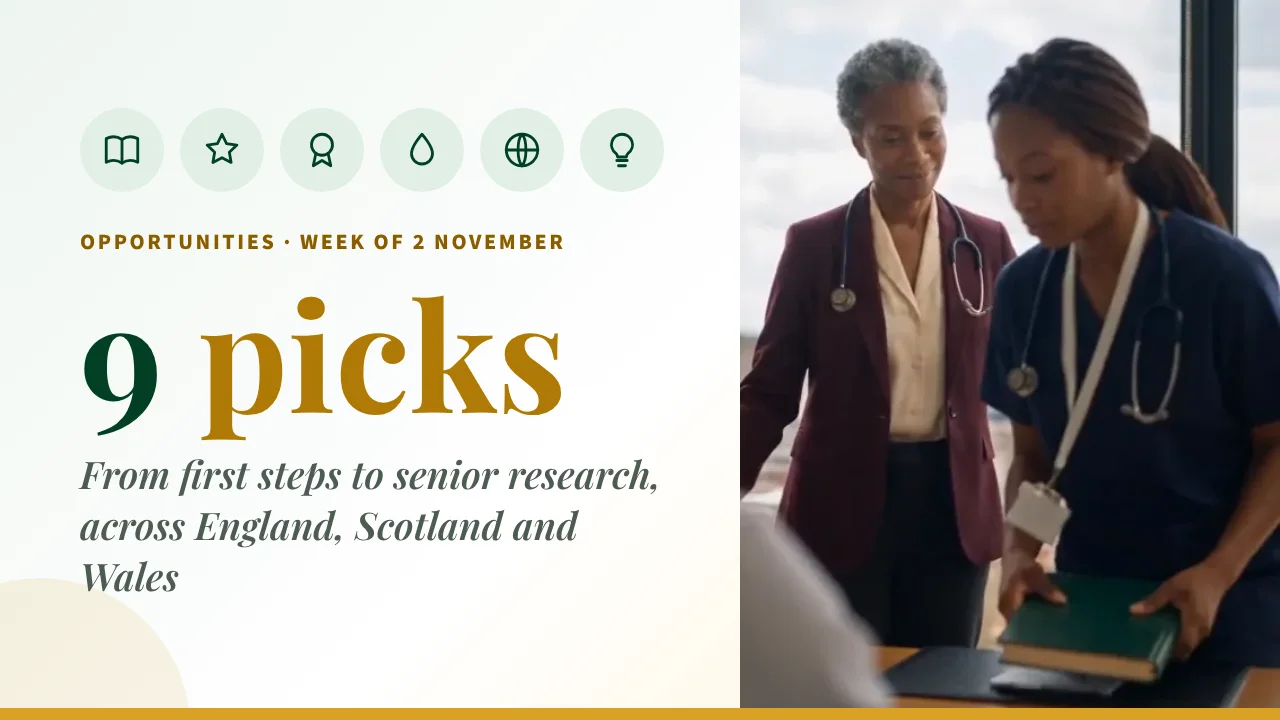
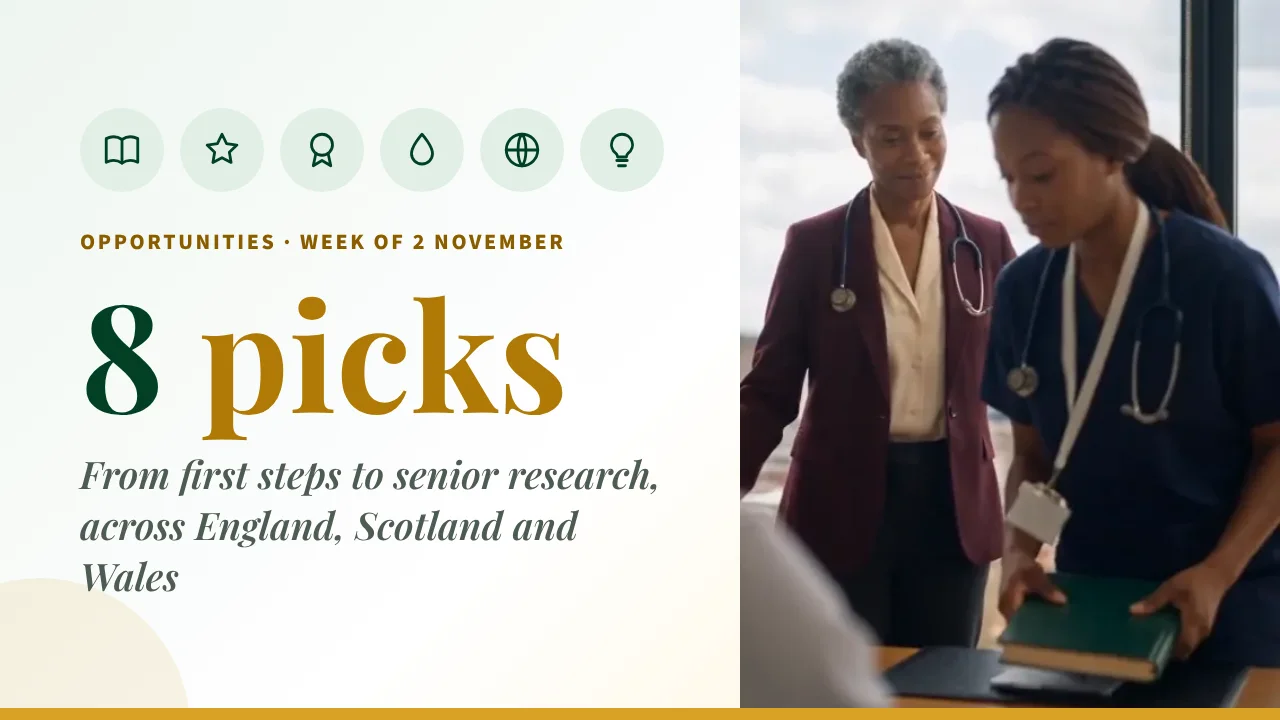
Roundup 2 Nov: review fixes (8 picks, RCN wording, Diabetes UK wording, layout)
Claude-Session: https://claude.ai/code/session_01A8ugDpjaQLHJq7K91CTbod

diff --git a/opportunities-2026-11-02.html b/opportunities-2026-11-02.html
@@ -3,11 +3,11 @@
 <head>
 <meta charset="utf-8">
 <meta name="viewport" content="width=device-width, initial-scale=1">
-<title>Opportunities this week: 9 picks for healthcare professionals | IHPN-UK</title>
-<meta name="description" content="Nine checked opportunities for UK healthcare professionals for the week of 2 November 2026: research fellowships for senior academics, consultants and researchers in Scotland and Wales, a senior nursing and midwifery leadership scholarship, Diabetes UK project grants, the BDA Research Symposium, RCN Scotland awards, RCGP Fellowship and nursing associate training.">
+<title>Opportunities this week: 8 picks for healthcare professionals | IHPN-UK</title>
+<meta name="description" content="Eight checked opportunities for UK healthcare professionals for the week of 2 November 2026: research fellowships for senior academics, consultants and researchers in Scotland and Wales, a senior nursing and midwifery leadership scholarship, Diabetes UK project grants, the BDA Research Symposium, RCN Scotland awards and RCGP Fellowship.">
 <meta name="theme-color" content="#013f24">
-<meta property="og:title" content="Opportunities this week: 9 picks for healthcare professionals | IHPN-UK">
-<meta property="og:description" content="Nine checked opportunities for UK healthcare professionals for the week of 2 November 2026: research fellowships for senior academics, consultants and researchers in Scotland and Wales, a senior nursing and midwifery leadership scholarship, Diabetes UK project grants, the BDA Research Symposium, RCN Scotland awards, RCGP Fellowship and nursing associate training.">
+<meta property="og:title" content="Opportunities this week: 8 picks for healthcare professionals | IHPN-UK">
+<meta property="og:description" content="Eight checked opportunities for UK healthcare professionals for the week of 2 November 2026: research fellowships for senior academics, consultants and researchers in Scotland and Wales, a senior nursing and midwifery leadership scholarship, Diabetes UK project grants, the BDA Research Symposium, RCN Scotland awards and RCGP Fellowship.">
 <link rel="canonical" href="https://ihpnuk.github.io/opportunities-2026-11-02.html">
 <meta property="og:url" content="https://ihpnuk.github.io/opportunities-2026-11-02.html">
 <meta property="og:site_name" content="Igbo Healthcare Professionals Network (IHPN-UK)">
@@ -69,9 +69,7 @@
 .mini em{grid-column:2;font-style:normal;font-weight:700;color:var(--gold-deep);font-size:.85rem;white-space:nowrap}
 @media (max-width:860px){.glance{grid-template-columns:1fr}}
 @media (max-width:560px){.feat-art{height:100px;justify-content:flex-end;padding-right:32px}.feat-art svg{width:56px;height:56px}.feat-body b{font-size:1.35rem}.mini a{grid-template-columns:40px 1fr}.mini .gl-who{font-size:.72rem}.mini svg{width:40px;height:40px;padding:8px}}
-.glance{align-items:start}
-.feat-art{height:240px}
-@media (min-width:861px){.feat{position:sticky;top:96px}}
+@media (min-width:861px){.feat-art{flex:1;height:auto;min-height:220px}.feat-art svg{width:120px;height:120px}}
 </style>
 </head>
 <body>
@@ -91,14 +89,14 @@
 <section class="page-hero"><div class="wrap">
   <span class="eyebrow">Opportunities &bull; 2 November 2026</span>
   <h1>Opportunities this week</h1>
-  <p class="lead">Nine picks, from first steps to senior research, across England, Scotland and Wales. Tap one to jump to it.</p>
+  <p class="lead">Eight picks, from first steps to senior research, across England, Scotland and Wales. Tap one to jump to it.</p>
 </div></section>
 
 <section>
   <div class="wrap" style="max-width:960px">
     <h2 class="sr">At a glance</h2>
-    <div class="glance"><a class="feat" href="#ba-srf" aria-label="Featured: Senior Research Fellowship, Closes Wed 11 Nov, 5pm. See details"><div class="feat-art"><span class="feat-flag">Closes soonest</span><svg viewBox="0 0 24 24" aria-hidden="true"><path d="M3 5.5c3-1.5 6-1.5 9 .5 3-2 6-2 9-.5V19c-3-1.5-6-1.5-9 .5-3-2-6-2-9-.5z"/><path d="M12 6v13.5"/></svg></div><div class="feat-body"><span class="gl-who">Psychology &amp; social science academics</span><b>Senior Research Fellowship</b><p>A year away from teaching and admin to finish a major piece of research.</p><span class="feat-when">Closes Wed 11 Nov, 5pm</span><span class="feat-btn">See details <span aria-hidden="true">&rarr;</span></span></div></a><ul class="mini"><li><a href="#fnf-senior"><svg viewBox="0 0 24 24" aria-hidden="true"><path d="M12 3l2.6 5.3 5.9.9-4.3 4.1 1 5.8L12 16.4 6.8 19.1l1-5.8L3.5 9.2l5.9-.9z"/></svg><span><span class="gl-who">Senior nurses &amp; midwives</span><b>FNF Senior and Global Scholarship</b></span><em>Closes Sun 15 Nov</em></a></li><li><a href="#rcn-scotland"><svg viewBox="0 0 24 24" aria-hidden="true"><circle cx="12" cy="9" r="6"/><path d="M8.5 14l-1.5 7 5-3 5 3-1.5-7"/></svg><span><span class="gl-who">Nurses, midwives &amp; support workers in Scotland</span><b>RCN Scotland Nurse of the Year</b></span><em>Closes Fri 20 Nov</em></a></li><li><a href="#diabetes-uk"><svg viewBox="0 0 24 24" aria-hidden="true"><path d="M12 3s6 6.6 6 11a6 6 0 0 1-12 0c0-4.4 6-11 6-11z"/><path d="M9.5 14.5a2.5 2.5 0 0 0 2.5 2.5"/></svg><span><span class="gl-who">Diabetes researchers</span><b>Diabetes UK Project Grants</b></span><em>Closes Tue 1 Dec</em></a></li><li><a href="#bda-symposium"><svg viewBox="0 0 24 24" aria-hidden="true"><path d="M12 7c-1.5-1.2-4-1.4-5.6.2C4.6 9 4.8 13 6.6 16.2 8 18.7 9.6 20 11 19.6c.6-.2.9-.4 1-.4s.4.2 1 .4c1.4.4 3-.9 4.4-3.4 1.8-3.2 2-7.2.2-9C16 5.6 13.5 5.8 12 7z"/><path d="M12 7c0-2 1-3.5 3-4"/></svg><span><span class="gl-who">Dietitians</span><b>BDA Research Symposium</b></span><em>Wed 2 Dec</em></a></li><li><a href="#nrs-consultant"><svg viewBox="0 0 24 24" aria-hidden="true"><path d="M9 3h6M10 3v6l-5 9a2 2 0 0 0 1.8 3h10.4a2 2 0 0 0 1.8-3l-5-9V3"/><path d="M7.5 15h9"/></svg><span><span class="gl-who">Newer consultants in Scotland, including O&amp;G</span><b>NRS consultant research fellowship</b></span><em>Closes Tue 8 Dec</em></a></li><li><a href="#hcrw-advanced"><svg viewBox="0 0 24 24" aria-hidden="true"><circle cx="12" cy="12" r="9"/><path d="M3 12h18M12 3c3 3.2 3 14.8 0 18M12 3c-3 3.2-3 14.8 0 18"/></svg><span><span class="gl-who">Researchers with a PhD in Wales</span><b>Health and Care Research Wales Advanced Fellowship</b></span><em>Closes Wed 13 Jan</em></a></li><li><a href="#rcgp-fellowship"><svg viewBox="0 0 24 24" aria-hidden="true"><path d="M6 3v5a4 4 0 0 0 8 0V3"/><path d="M10 12v3a5 5 0 0 0 10 0v-2"/><circle cx="20" cy="11" r="2"/></svg><span><span class="gl-who">GPs</span><b>RCGP Fellowship</b></span><em>Any time</em></a></li><li><a href="#nursing-associate"><svg viewBox="0 0 24 24" aria-hidden="true"><path d="M3 20h5v-5h5v-5h5V5h3"/><path d="M15 5h6v6" /></svg><span><span class="gl-who">Healthcare assistants &amp; support workers</span><b>Train as a nursing associate</b></span><em>Any time</em></a></li></ul></div>
-    <figure class="tl-wrap"><svg class="timeline" viewBox="0 0 780 150" role="img" aria-labelledby="tl-t tl-d"><title id="tl-t">Key dates</title><desc id="tl-d">Timeline from today, 2 November 2026, to 13 January 2027: Senior Research Fellowship 11 Nov; FNF Senior and Global Scholarship 15 Nov; RCN Scotland Nurse of the Year 20 Nov; Diabetes UK Project Grants 1 Dec; BDA Research Symposium 2 Dec; NRS consultant research fellowship 8 Dec; Health and Care Research Wales Advanced Fellowship 13 Jan. Two picks have no deadline. Dates are in order, not to scale.</desc><line x1="40" y1="70" x2="700" y2="70" class="tl-axis"/><circle cx="40" cy="70" r="7" class="tl-today"/><text x="40" y="100" class="tl-lab" text-anchor="middle">Today</text><text x="40" y="118" class="tl-sub" text-anchor="middle">2 Nov</text><circle cx="130" cy="70" r="11" class="tl-dot"/><text x="130" y="44" class="tl-lab" text-anchor="middle">11 Nov</text><text x="130" y="100" class="tl-sub" text-anchor="middle">Senior fellowship</text><circle cx="225" cy="70" r="11" class="tl-dot"/><text x="225" y="44" class="tl-lab" text-anchor="middle">15 Nov</text><text x="225" y="118" class="tl-sub" text-anchor="middle">FNF scholarship</text><circle cx="320" cy="70" r="11" class="tl-dot"/><text x="320" y="44" class="tl-lab" text-anchor="middle">20 Nov</text><text x="320" y="100" class="tl-sub" text-anchor="middle">Nurse awards</text><circle cx="415" cy="70" r="11" class="tl-dot"/><text x="415" y="44" class="tl-lab" text-anchor="middle">1 Dec</text><text x="415" y="118" class="tl-sub" text-anchor="middle">Diabetes UK</text><circle cx="510" cy="70" r="11" class="tl-dot"/><text x="510" y="44" class="tl-lab" text-anchor="middle">2 Dec</text><text x="510" y="100" class="tl-sub" text-anchor="middle">BDA symposium</text><circle cx="605" cy="70" r="11" class="tl-dot"/><text x="605" y="44" class="tl-lab" text-anchor="middle">8 Dec</text><text x="605" y="118" class="tl-sub" text-anchor="middle">NRS fellowship</text><circle cx="700" cy="70" r="11" class="tl-dot"/><text x="700" y="44" class="tl-lab" text-anchor="middle">13 Jan</text><text x="700" y="100" class="tl-sub" text-anchor="middle">Wales fellowship</text><text x="370" y="146" class="tl-note" text-anchor="middle">Plus 2 picks you can act on any time: RCGP Fellowship and nursing associate training</text></svg><ol class="tl-list" aria-label="Key dates"><li><b>11 Nov</b> Senior Research Fellowship</li><li><b>15 Nov</b> FNF Senior and Global Scholarship</li><li><b>20 Nov</b> RCN Scotland Nurse of the Year</li><li><b>1 Dec</b> Diabetes UK Project Grants</li><li><b>2 Dec</b> BDA Research Symposium</li><li><b>8 Dec</b> NRS consultant research fellowship</li><li><b>13 Jan</b> Health and Care Research Wales Advanced Fellowship</li><li><b>Any time</b> RCGP Fellowship, nursing associate training</li></ol></figure>
+    <div class="glance"><a class="feat" href="#ba-srf" aria-label="Featured: Senior Research Fellowship, Closes Wed 11 Nov, 5pm. See details"><div class="feat-art"><span class="feat-flag">Closes soonest</span><svg viewBox="0 0 24 24" aria-hidden="true"><path d="M3 5.5c3-1.5 6-1.5 9 .5 3-2 6-2 9-.5V19c-3-1.5-6-1.5-9 .5-3-2-6-2-9-.5z"/><path d="M12 6v13.5"/></svg></div><div class="feat-body"><span class="gl-who">Psychology &amp; social science academics</span><b>Senior Research Fellowship</b><p>A year away from teaching and admin to finish a major piece of research.</p><span class="feat-when">Closes Wed 11 Nov, 5pm</span><span class="feat-btn">See details <span aria-hidden="true">&rarr;</span></span></div></a><ul class="mini"><li><a href="#fnf-senior"><svg viewBox="0 0 24 24" aria-hidden="true"><path d="M12 3l2.6 5.3 5.9.9-4.3 4.1 1 5.8L12 16.4 6.8 19.1l1-5.8L3.5 9.2l5.9-.9z"/></svg><span><span class="gl-who">Senior nurses &amp; midwives</span><b>FNF Senior and Global Scholarship</b></span><em>Closes Sun 15 Nov</em></a></li><li><a href="#rcn-scotland"><svg viewBox="0 0 24 24" aria-hidden="true"><circle cx="12" cy="9" r="6"/><path d="M8.5 14l-1.5 7 5-3 5 3-1.5-7"/></svg><span><span class="gl-who">Nurses, midwives &amp; support workers in Scotland</span><b>RCN Scotland Nurse of the Year</b></span><em>Closes Fri 20 Nov</em></a></li><li><a href="#diabetes-uk"><svg viewBox="0 0 24 24" aria-hidden="true"><path d="M12 3s6 6.6 6 11a6 6 0 0 1-12 0c0-4.4 6-11 6-11z"/><path d="M9.5 14.5a2.5 2.5 0 0 0 2.5 2.5"/></svg><span><span class="gl-who">Diabetes researchers</span><b>Diabetes UK Project Grants</b></span><em>Closes Tue 1 Dec</em></a></li><li><a href="#bda-symposium"><svg viewBox="0 0 24 24" aria-hidden="true"><path d="M12 7c-1.5-1.2-4-1.4-5.6.2C4.6 9 4.8 13 6.6 16.2 8 18.7 9.6 20 11 19.6c.6-.2.9-.4 1-.4s.4.2 1 .4c1.4.4 3-.9 4.4-3.4 1.8-3.2 2-7.2.2-9C16 5.6 13.5 5.8 12 7z"/><path d="M12 7c0-2 1-3.5 3-4"/></svg><span><span class="gl-who">Dietitians</span><b>BDA Research Symposium</b></span><em>Wed 2 Dec</em></a></li><li><a href="#nrs-consultant"><svg viewBox="0 0 24 24" aria-hidden="true"><path d="M9 3h6M10 3v6l-5 9a2 2 0 0 0 1.8 3h10.4a2 2 0 0 0 1.8-3l-5-9V3"/><path d="M7.5 15h9"/></svg><span><span class="gl-who">Newer consultants in Scotland, including O&amp;G</span><b>NRS consultant research fellowship</b></span><em>Closes Tue 8 Dec</em></a></li><li><a href="#hcrw-advanced"><svg viewBox="0 0 24 24" aria-hidden="true"><circle cx="12" cy="12" r="9"/><path d="M3 12h18M12 3c3 3.2 3 14.8 0 18M12 3c-3 3.2-3 14.8 0 18"/></svg><span><span class="gl-who">Researchers with a PhD in Wales</span><b>Health and Care Research Wales Advanced Fellowship</b></span><em>Closes Wed 13 Jan</em></a></li><li><a href="#rcgp-fellowship"><svg viewBox="0 0 24 24" aria-hidden="true"><path d="M6 3v5a4 4 0 0 0 8 0V3"/><path d="M10 12v3a5 5 0 0 0 10 0v-2"/><circle cx="20" cy="11" r="2"/></svg><span><span class="gl-who">GPs</span><b>RCGP Fellowship</b></span><em>Any time</em></a></li></ul></div>
+    <figure class="tl-wrap"><svg class="timeline" viewBox="0 0 780 150" role="img" aria-labelledby="tl-t tl-d"><title id="tl-t">Key dates</title><desc id="tl-d">Timeline from today, 2 November 2026, to 13 January 2027: Senior Research Fellowship 11 Nov; FNF Senior and Global Scholarship 15 Nov; RCN Scotland Nurse of the Year 20 Nov; Diabetes UK Project Grants 1 Dec; BDA Research Symposium 2 Dec; NRS consultant research fellowship 8 Dec; Health and Care Research Wales Advanced Fellowship 13 Jan. One pick has no deadline. Dates are in order, not to scale.</desc><line x1="40" y1="70" x2="700" y2="70" class="tl-axis"/><circle cx="40" cy="70" r="7" class="tl-today"/><text x="40" y="100" class="tl-lab" text-anchor="middle">Today</text><text x="40" y="118" class="tl-sub" text-anchor="middle">2 Nov</text><circle cx="130" cy="70" r="11" class="tl-dot"/><text x="130" y="44" class="tl-lab" text-anchor="middle">11 Nov</text><text x="130" y="100" class="tl-sub" text-anchor="middle">Senior fellowship</text><circle cx="225" cy="70" r="11" class="tl-dot"/><text x="225" y="44" class="tl-lab" text-anchor="middle">15 Nov</text><text x="225" y="118" class="tl-sub" text-anchor="middle">FNF scholarship</text><circle cx="320" cy="70" r="11" class="tl-dot"/><text x="320" y="44" class="tl-lab" text-anchor="middle">20 Nov</text><text x="320" y="100" class="tl-sub" text-anchor="middle">Nurse awards</text><circle cx="415" cy="70" r="11" class="tl-dot"/><text x="415" y="44" class="tl-lab" text-anchor="middle">1 Dec</text><text x="415" y="118" class="tl-sub" text-anchor="middle">Diabetes UK</text><circle cx="510" cy="70" r="11" class="tl-dot"/><text x="510" y="44" class="tl-lab" text-anchor="middle">2 Dec</text><text x="510" y="100" class="tl-sub" text-anchor="middle">BDA symposium</text><circle cx="605" cy="70" r="11" class="tl-dot"/><text x="605" y="44" class="tl-lab" text-anchor="middle">8 Dec</text><text x="605" y="118" class="tl-sub" text-anchor="middle">NRS fellowship</text><circle cx="700" cy="70" r="11" class="tl-dot"/><text x="700" y="44" class="tl-lab" text-anchor="middle">13 Jan</text><text x="700" y="100" class="tl-sub" text-anchor="middle">Wales fellowship</text><text x="370" y="146" class="tl-note" text-anchor="middle">Plus 1 pick you can act on any time: RCGP Fellowship</text></svg><ol class="tl-list" aria-label="Key dates"><li><b>11 Nov</b> Senior Research Fellowship</li><li><b>15 Nov</b> FNF Senior and Global Scholarship</li><li><b>20 Nov</b> RCN Scotland Nurse of the Year</li><li><b>1 Dec</b> Diabetes UK Project Grants</li><li><b>2 Dec</b> BDA Research Symposium</li><li><b>8 Dec</b> NRS consultant research fellowship</li><li><b>13 Jan</b> Health and Care Research Wales Advanced Fellowship</li><li><b>Any time</b> RCGP Fellowship</li></ol></figure>
     <div class="grid" style="gap:18px">
       <article class="card pk" id="ba-srf">
         <div class="pk-head"><svg class="pk-ic" viewBox="0 0 24 24" aria-hidden="true"><path d="M3 5.5c3-1.5 6-1.5 9 .5 3-2 6-2 9-.5V19c-3-1.5-6-1.5-9 .5-3-2-6-2-9-.5z"/><path d="M12 6v13.5"/></svg><div><span class="eyebrow" style="color:var(--gold-deep)">Psychology &amp; social science academics</span><h2>British Academy/Leverhulme Senior Research Fellowship</h2></div></div>
@@ -117,15 +115,15 @@
       <article class="card pk" id="rcn-scotland">
         <div class="pk-head"><svg class="pk-ic" viewBox="0 0 24 24" aria-hidden="true"><circle cx="12" cy="9" r="6"/><path d="M8.5 14l-1.5 7 5-3 5 3-1.5-7"/></svg><div><span class="eyebrow" style="color:var(--gold-deep)">Nurses, midwives &amp; support workers in Scotland</span><h2>RCN Scotland Nurse of the Year Awards 2027</h2></div></div>
         <p>Nominate a colleague whose work deserves recognition.</p>
-        <ul class="facts"><li><svg class="fi" viewBox="0 0 24 24" aria-hidden="true"><rect x="3" y="5" width="18" height="16" rx="2"/><path d="M3 10h18M8 3v4M16 3v4"/></svg>Nominations close Fri 20 Nov</li><li><svg class="fi" viewBox="0 0 24 24" aria-hidden="true"><path d="M16 6.5A4 4 0 0 0 8.5 8.5V13M6 13h8M6.5 19h11M8.5 13c0 3-1 4.5-2 6"/></svg>No RCN membership needed</li><li><svg class="fi" viewBox="0 0 24 24" aria-hidden="true"><path d="M12 21s-7-6.2-7-11.5a7 7 0 0 1 14 0C19 14.8 12 21 12 21z"/><circle cx="12" cy="9.5" r="2.5"/></svg>Scotland</li></ul>
-        <details><summary>Who can apply and details</summary><ul><li>For nursing staff working in Scotland, in the NHS, care homes or the independent sector</li><li>13 categories, including Adult Nursing, Mental Health Nursing, Community Nursing, Children &amp; Midwifery Nursing, Clinical Leadership and Nursing Support Worker of the Year</li><li>The person you nominate does not need to be an RCN member</li><li>Winners are announced at a ceremony in April 2027</li></ul></details>
+        <ul class="facts"><li><svg class="fi" viewBox="0 0 24 24" aria-hidden="true"><rect x="3" y="5" width="18" height="16" rx="2"/><path d="M3 10h18M8 3v4M16 3v4"/></svg>Nominations close Fri 20 Nov</li><li><svg class="fi" viewBox="0 0 24 24" aria-hidden="true"><path d="M16 6.5A4 4 0 0 0 8.5 8.5V13M6 13h8M6.5 19h11M8.5 13c0 3-1 4.5-2 6"/></svg>Nominate online</li><li><svg class="fi" viewBox="0 0 24 24" aria-hidden="true"><path d="M12 21s-7-6.2-7-11.5a7 7 0 0 1 14 0C19 14.8 12 21 12 21z"/><circle cx="12" cy="9.5" r="2.5"/></svg>Scotland</li></ul>
+        <details><summary>Who can apply and details</summary><ul><li>For nursing staff working in Scotland, in the NHS, care homes or the independent sector</li><li>13 categories, including Adult Nursing, Mental Health Nursing, Community Nursing, Children&rsquo;s Nursing and Midwifery, Clinical Leadership and Nursing Support Worker of the Year</li><li>Winners are announced at a ceremony in April 2027</li></ul></details>
         <p><a class="btn btn-gold pk-btn" href="https://www.rcn.org.uk/scotland/Get-involved/ScotlandNurseOfTheYear2027" target="_blank" rel="noopener">Nominate on the RCN site&nbsp;&rarr;<span class="sr"> (opens in new tab)</span></a></p>
       </article>
       <article class="card pk" id="diabetes-uk">
         <div class="pk-head"><svg class="pk-ic" viewBox="0 0 24 24" aria-hidden="true"><path d="M12 3s6 6.6 6 11a6 6 0 0 1-12 0c0-4.4 6-11 6-11z"/><path d="M9.5 14.5a2.5 2.5 0 0 0 2.5 2.5"/></svg><div><span class="eyebrow" style="color:var(--gold-deep)">Diabetes researchers</span><h2>Diabetes UK Project Grants</h2></div></div>
         <p>Funding for a diabetes research project of up to five years.</p>
         <ul class="facts"><li><svg class="fi" viewBox="0 0 24 24" aria-hidden="true"><rect x="3" y="5" width="18" height="16" rx="2"/><path d="M3 10h18M8 3v4M16 3v4"/></svg>Closes Tue 1 Dec</li><li><svg class="fi" viewBox="0 0 24 24" aria-hidden="true"><path d="M16 6.5A4 4 0 0 0 8.5 8.5V13M6 13h8M6.5 19h11M8.5 13c0 3-1 4.5-2 6"/></svg>Up to &pound;500,000</li><li><svg class="fi" viewBox="0 0 24 24" aria-hidden="true"><path d="M12 21s-7-6.2-7-11.5a7 7 0 0 1 14 0C19 14.8 12 21 12 21z"/><circle cx="12" cy="9.5" r="2.5"/></svg>UK-wide</li></ul>
-        <details><summary>Who can apply and details</summary><ul><li>The lead applicant usually needs a tenured post, or must show they will be salaried for the whole grant</li><li>Research must take place at an established UK academic institute or NHS Trust</li><li>One application per lead applicant in each round; no extensions to the deadline</li><li>Requests of &pound;500,000 or more need a conversation with Diabetes UK first. Decisions in May 2027</li></ul></details>
+        <details><summary>Who can apply and details</summary><ul><li>The lead applicant usually needs a tenured post, or must show they will be salaried for the whole grant</li><li>Research must take place at an established research institution in the UK; only academic institutes and NHS Trusts can apply</li><li>One application per lead applicant in each round; no extensions to the deadline</li><li>Requests of &pound;500,000 or more need a conversation with Diabetes UK first. Decisions in May 2027</li></ul></details>
         <p><a class="btn btn-gold pk-btn" href="https://www.diabetes.org.uk/our-research/for-researchers/applying-for-funding/funding-schemes/project-grants" target="_blank" rel="noopener">See the scheme on Diabetes UK&nbsp;&rarr;<span class="sr"> (opens in new tab)</span></a></p>
       </article>
       <article class="card pk" id="bda-symposium">
@@ -139,7 +137,7 @@
         <div class="pk-head"><svg class="pk-ic" viewBox="0 0 24 24" aria-hidden="true"><path d="M9 3h6M10 3v6l-5 9a2 2 0 0 0 1.8 3h10.4a2 2 0 0 0 1.8-3l-5-9V3"/><path d="M7.5 15h9"/></svg><div><span class="eyebrow" style="color:var(--gold-deep)">Newer consultants in Scotland, including O&amp;G</span><h2>NHS Research Scotland Clinician Researcher Fellowship</h2></div></div>
         <p>Two funded sessions a week of protected time for clinical research.</p>
         <ul class="facts"><li><svg class="fi" viewBox="0 0 24 24" aria-hidden="true"><rect x="3" y="5" width="18" height="16" rx="2"/><path d="M3 10h18M8 3v4M16 3v4"/></svg>Closes Tue 8 Dec, midday</li><li><svg class="fi" viewBox="0 0 24 24" aria-hidden="true"><path d="M16 6.5A4 4 0 0 0 8.5 8.5V13M6 13h8M6.5 19h11M8.5 13c0 3-1 4.5-2 6"/></svg>Salary for 2 sessions a week, up to 3 years</li><li><svg class="fi" viewBox="0 0 24 24" aria-hidden="true"><path d="M12 21s-7-6.2-7-11.5a7 7 0 0 1 14 0C19 14.8 12 21 12 21z"/><circle cx="12" cy="9.5" r="2.5"/></svg>Scotland</li></ul>
-        <details><summary>Who can apply and details</summary><ul><li>For consultants with a CCT who have been substantive consultants for less than 6 years (whole-time equivalent) by March 2027</li><li>You must not already have research sessions paid for in another way</li><li>Covers NHS boards across Scotland through the four NRS regional nodes</li><li>Fellowships start on 1 April 2027</li></ul></details>
+        <details><summary>Who can apply and details</summary><ul><li>For consultants with a CCT who have been substantive consultants for less than 6 years (whole-time equivalent) by March 2027</li><li>You must not already have research sessions paid for in another way</li><li>Covers NHS boards across Scotland through the four NRS regional nodes</li><li>Fellowships start on 1 April 2027. The CSO page also mentions other funding dates, so check with CSOfellowships@gov.scot if unsure</li></ul></details>
         <p><a class="btn btn-gold pk-btn" href="https://www.cso.scot.nhs.uk/fellowship-funding/nrs-career-researcher-fellowships/nhs-research-scotland-clinician-researcher-fellowships-medical-consultant/" target="_blank" rel="noopener">See the fellowship on the CSO site&nbsp;&rarr;<span class="sr"> (opens in new tab)</span></a></p>
       </article>
       <article class="card pk" id="hcrw-advanced">
@@ -156,16 +154,9 @@
         <details><summary>Who can apply and details</summary><ul><li>You need at least five continuous years as an RCGP Member, and, if clinically active in the UK, one revalidation cycle after your CCT</li><li>Show a significant contribution to community health, to the science or practice of medicine, or to general practice</li><li>Write a 500 to 1,000 word statement and name two supporters</li><li>Fellows are elected at Council four times a year</li></ul></details>
         <p><a class="btn btn-gold pk-btn" href="https://www.rcgp.org.uk/membership/fellowship" target="_blank" rel="noopener">See how to apply on the RCGP site&nbsp;&rarr;<span class="sr"> (opens in new tab)</span></a></p>
       </article>
-      <article class="card pk" id="nursing-associate">
-        <div class="pk-head"><svg class="pk-ic" viewBox="0 0 24 24" aria-hidden="true"><path d="M3 20h5v-5h5v-5h5V5h3"/><path d="M15 5h6v6" /></svg><div><span class="eyebrow" style="color:var(--gold-deep)">Healthcare assistants &amp; support workers</span><h2>Train as a nursing associate</h2></div></div>
-        <p>Earn while you train for an NMC-registered role, and a step towards nursing.</p>
-        <ul class="facts"><li><svg class="fi" viewBox="0 0 24 24" aria-hidden="true"><rect x="3" y="5" width="18" height="16" rx="2"/><path d="M3 10h18M8 3v4M16 3v4"/></svg>Any time</li><li><svg class="fi" viewBox="0 0 24 24" aria-hidden="true"><path d="M16 6.5A4 4 0 0 0 8.5 8.5V13M6 13h8M6.5 19h11M8.5 13c0 3-1 4.5-2 6"/></svg>Usually paid at Band 3 while training</li><li><svg class="fi" viewBox="0 0 24 24" aria-hidden="true"><path d="M12 21s-7-6.2-7-11.5a7 7 0 0 1 14 0C19 14.8 12 21 12 21z"/><circle cx="12" cy="9.5" r="2.5"/></svg>England</li></ul>
-        <details><summary>Who can apply and details</summary><ul><li>Trainee posts are usually advertised on NHS Jobs; employer-based training is paid</li><li>You need GCSE grade 4 (C) or above in maths and English, or Functional Skills Level 2. Some employers also ask for a Level 3 qualification</li><li>Training mixes study and work-based learning</li><li>Once qualified, you may be able to complete a nursing degree apprenticeship in two years</li></ul></details>
-        <p><a class="btn btn-gold pk-btn" href="https://www.healthcareers.nhs.uk/explore-roles/nursing/roles-nursing/nursing-associate" target="_blank" rel="noopener">Read the guide on NHS Health Careers&nbsp;&rarr;<span class="sr"> (opens in new tab)</span></a></p>
-      </article>
     </div>
     <p style="margin-top:20px;color:var(--muted);font-size:.9rem"><em>Checked on official sites, 1 Nov 2026. IHPN-UK isn&rsquo;t paid to feature these. Check the official page before you apply.</em></p>
-    <figure style="margin:36px auto 0;text-align:center"><img src="assets/opportunities/2026-11-02.webp" width="1080" height="1350" alt="IHPN-UK opportunities for the week of 2 November 2026: British Academy/Leverhulme Senior Research Fellowship for senior academics, closes 11 November, UK-wide; Florence Nightingale Foundation Senior and Global Scholarship for senior nurses and midwives, closes 15 November, funded; RCN Scotland Nurse of the Year Awards, nominations close 20 November. Six more picks for diabetes researchers, dietitians, consultants, researchers in Wales, GPs and support workers at ihpnuk.github.io. Why join IHPN-UK: hear about our talks, events and opportunities, ask questions and get support in our members&rsquo; group, and connect with Igbo healthcare professionals across the UK." style="border-radius:14px;box-shadow:var(--shadow);margin:0 auto;width:100%;max-width:420px;height:auto"><figcaption style="color:var(--muted);margin-top:10px">Share this week&rsquo;s card</figcaption></figure>
+    <figure style="margin:36px auto 0;text-align:center"><img src="assets/opportunities/2026-11-02.webp" width="1080" height="1350" alt="IHPN-UK opportunities for the week of 2 November 2026: British Academy/Leverhulme Senior Research Fellowship for senior academics, closes 11 November, UK-wide; Florence Nightingale Foundation Senior and Global Scholarship for senior nurses and midwives, closes 15 November, funded; RCN Scotland Nurse of the Year Awards, nominations close 20 November. Five more picks for diabetes researchers, dietitians, consultants, researchers in Wales and GPs at ihpnuk.github.io. Why join IHPN-UK: hear about our talks, events and opportunities, ask questions and get support in our members&rsquo; group, and connect with Igbo healthcare professionals across the UK." style="border-radius:14px;box-shadow:var(--shadow);margin:0 auto;width:100%;max-width:420px;height:auto"><figcaption style="color:var(--muted);margin-top:10px">Share this week&rsquo;s card</figcaption></figure>
     <aside class="convo" aria-labelledby="convo-h"><div class="convo-ic"><svg viewBox="0 0 24 24" aria-hidden="true"><path d="M4 5h12a2 2 0 0 1 2 2v6a2 2 0 0 1-2 2H9l-4 3v-3H4a2 2 0 0 1-2-2V7a2 2 0 0 1 2-2z"/><path d="M20 9h1a1 1 0 0 1 1 1v6a1 1 0 0 1-1 1h-1v3l-3-3h-5"/></svg></div><div><h2 id="convo-h">Join the conversation</h2><p>Is there a colleague you would nominate for an award, or a fellowship you are thinking about? Tell us, and share an opportunity we should feature next.</p><div class="actions"><a class="btn btn-gold" href="https://www.tiktok.com/@ihpnuk" target="_blank" rel="noopener"><svg viewBox="0 0 24 24" aria-hidden="true"><path d="M16.6 5.8A4.3 4.3 0 0 1 15.5 3h-3.1v12.4a2.6 2.6 0 1 1-2.6-2.6c.3 0 .5 0 .8.1V9.7a5.8 5.8 0 1 0 5 5.7V9.1a7.4 7.4 0 0 0 4.3 1.4V7.4a4.3 4.3 0 0 1-3.3-1.6z"/></svg> Message us on TikTok<span class="sr"> (opens in new tab)</span></a><a class="btn btn-outline dark" href="mailto:ihpnuk@outlook.com?subject=Opportunities%202%20November"><svg viewBox="0 0 24 24" aria-hidden="true"><path d="M3 5h18a1 1 0 0 1 1 1v12a1 1 0 0 1-1 1H3a1 1 0 0 1-1-1V6a1 1 0 0 1 1-1zm1 2.4V17h16V7.4l-8 5.3-8-5.3zM5.6 7 12 11.2 18.4 7H5.6z"/></svg> Email us</a></div><p class="convo-mail">or write to <a href="mailto:ihpnuk@outlook.com">ihpnuk@outlook.com</a></p></div></aside>
   </div>
 </section>

diff --git a/news.html b/news.html
@@ -92,8 +92,8 @@
       <article class="card news-item">
         <div class="news-thumb"><img src="assets/news/opportunities-2026-11-02.webp" alt="" width="640" height="360" loading="lazy"><span class="ai-tag">AI illustration</span></div>
         <time datetime="2026-11-02">2 November 2026</time>
-        <h3>Opportunities this week: 9 picks for healthcare professionals</h3>
-        <p>From nursing associate training and Scotland&rsquo;s nursing awards to senior fellowships and research funding, with picks for England, Scotland and Wales.</p>
+        <h3>Opportunities this week: 8 picks for healthcare professionals</h3>
+        <p>Scotland&rsquo;s nursing awards, RCGP Fellowship, a dietetics symposium, senior fellowships and research funding, with picks for England, Scotland and Wales.</p>
         <a href="opportunities-2026-11-02.html">See this week&rsquo;s picks<span class="sr"> (2 November)</span> &rarr;</a>
       </article>
       <article class="card news-item">
